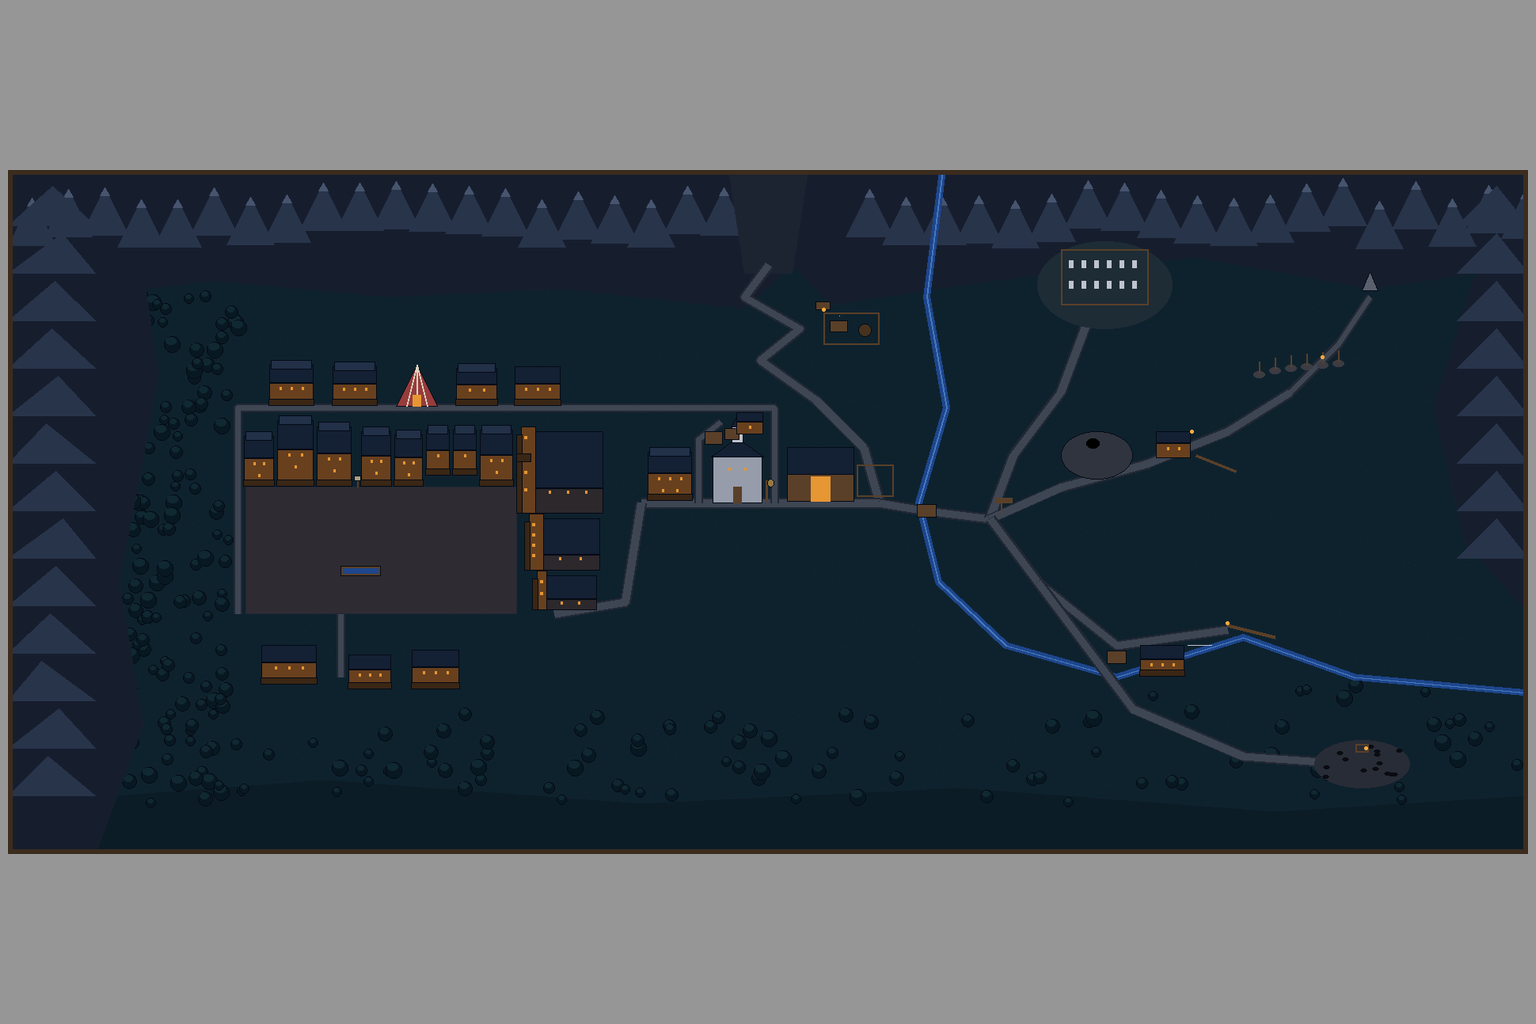
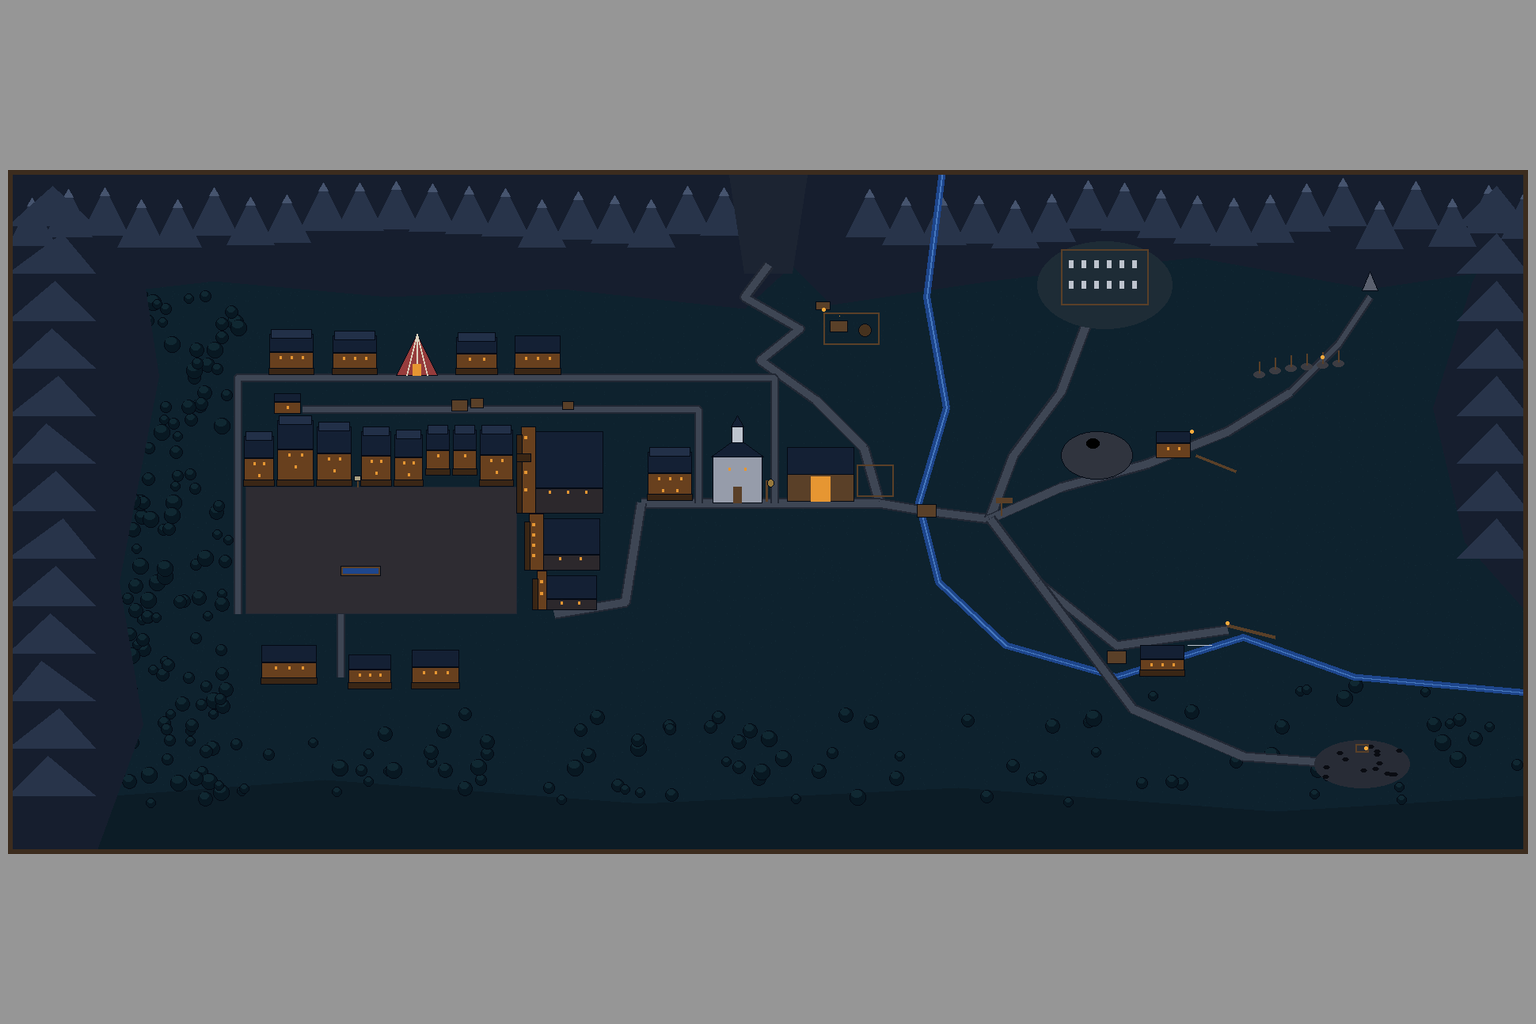
Errata 163 A7-A8: the whole district laid out from the plates -- plan, block-out and image brief
Claude-Session: https://claude.ai/code/session_01FXbCus2Hm36NL2YuHFGB8T

Changed region(s): [[0.1562, 0.3125, 0.5, 0.4375]]

diff --git a/reference/town-map/brief.md b/reference/town-map/brief.md
@@ -117,3 +117,32 @@ The long row, the Lane's road, Lower Street and everything else stay the shippin
 
    If it misses, the correction is a second finishing pass (`finish-02`, with the miss stated).
 6. **Promote.** Run `finish --attempt N --write`, then `npm test` and `node tools/run-all.mjs`. Commit, then open a PR whose description says `Lesson: none -- art for errata 163's map`, and merge it when CI is green. The builder re-places the markers and the roads.
+
+## Then: the whole district, dressed from a block-out (district-01)
+
+**This supersedes parts five and six.** The town's block-out (`tools/art/town-map-blockout.py`) is not used.
+
+Tyler said:
+- **"What if you create a layout of where every building/location should be located ... Then it will know exactly where each building should go."**
+- **"Feel free to create a completely new map if you need to."**
+- **"Can't you just look inside the game and build the map layout based on what you see?"**
+
+The builder read every exterior plate and wrote down where things are in `reference/district/plan.json`, room by room under `reading`. The two places the plates disagree are listed under `contradictions`. `tools/art/district-blockout.py` paints that plan as flat shapes in the night map's colours. The block-out is **the picture being edited**, not a reference beside it. The earlier redraw had its layout as a side picture, and the model kept to the old map.
+
+The cap is 15: this dressing, and two corrections.
+
+1. **Prepare.** `art/staging/town-map/district-01/input.png` is committed (`python3 tools/art/district-blockout.py build` rebuilds it).
+2. **Dress.** Run `NODE_USE_ENV_PROXY=1 node tools/art/room-op.mjs reference/town-map/prompts/district-01.spec.json`. The current map goes with it as the style, and Main Street's plate goes for the street.
+3. **Candidate.** Run `python3 tools/art/district-blockout.py promote --attempt 1`, with `--fit` if the frame drifts. It prints how far the drawing sits from the block-out.
+4. **Check the candidate at full size against `reference/district/blockout-1920x864.png`:**
+   - every building is where its block is, the same size, facing the same way:
+     - the long row and the Lane's shops face down;
+     - the Nugget, the hotel and the assay office face left onto the square;
+     - the Nugget is the largest;
+   - the church has its steeple and its bell post, and the livery its corral;
+   - the roads, the creek, the bridges, the pass, the coach stop, the graveyard, the hole, the cabin, the stakes, the cairn, the laundry and Mott's field are where their shapes are;
+   - the shift it prints is within about 8 px;
+   - there is no text.
+
+   If it misses, the correction is `district-02`: copy the spec and prompt, keep `district-01/input.png`, and state the miss.
+5. **Promote** with `--write`. In `reference/global-baseline.json` the map stays `district-map-night` (do not add a `daylight` line). Run `npm test` and `node tools/run-all.mjs`. Commit, then open a PR whose description says `Lesson: none -- art for errata 163's map`, and merge it when CI is green. The builder sets the markers and the roads from the same plan.

diff --git a/docs/00-errata.md b/docs/00-errata.md
@@ -4591,6 +4591,12 @@ He answered **"That all sounds good"** to one more pass: a pass at the top with 
 - **Tyler, shown it: "It doesn't look great."** Offered the choice, he chose **"Keep main, fix the Lane"**. So the L map's east arm (A4) stays as it is. Only the plan's Lane clear is applied, with `town-map-pieces.py lane --write`: the Lane's westmost shopfront becomes the grass and fence beside it, and the Lane has five shopfronts with the tent third. The map changes only inside x 292–349, y 278–349.
 - The pieces, assembly, both finishing passes and the settled candidate are kept as the record. The 13th operation is unspent.
 
+**A7-A8 · The whole district, laid out and dressed.** Tyler was offered a layout that the image edits in place, rather than one it looks at beside the old map, at +2 to the cap, and said **"Yes"**. He then said **"Feel free to create a completely new map if you need to where everything on the whole map should be located"**, and of a building the first block-out had missed, **"can't you just look inside the game and build the map layout based on what you see?"**
+
+The builder read every exterior plate. `reference/district/plan.json` records what each one shows, under `reading`, and where everything therefore is. It also records the two places the plates disagree, under `contradictions`.
+
+`tools/art/district-blockout.py` paints the plan as a block-out in the night map's colours, and the image session dresses that block-out without moving anything. The cap is 15 (attemptsTotal 318). The corner move in A6 (PR 243) and the town-only block-out are superseded and not merged. The markers and the map's roads are set from the same plan. The brief's last part covers it.
+
 **B · The map's Thad (with errata 161, part 3).** A small Thad stands on the map at the place of the room it was opened from, or Main Street for a room with none of its own (`mapToken.homes` names the rest). A click on a place walks him there along the drawn roads, the shortest way, and the room changes when he arrives (`engine/core/MapWalk.ts`).
 - **Timing.** He walks at 260 pixels a second, and never for longer than 4.5 seconds: a long walk is walked faster.
 - **Skipping.** A second click skips the walk, so backtracking never waits.
